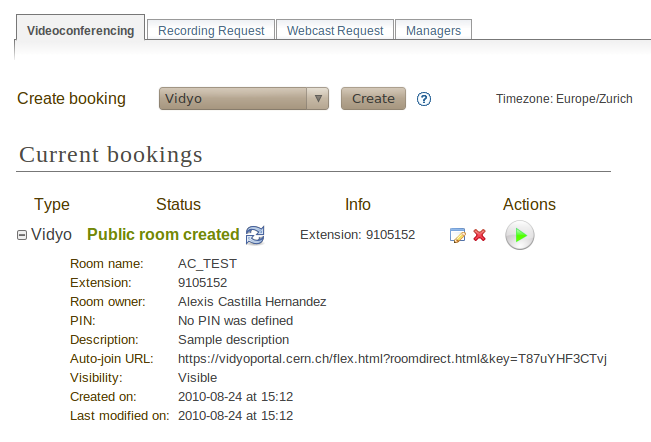
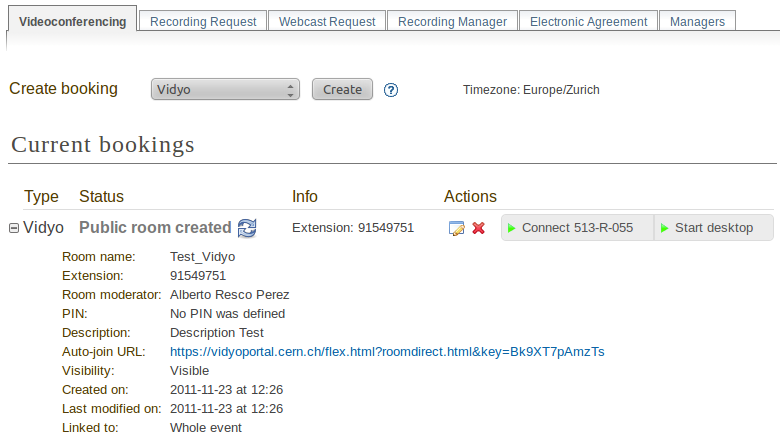
[FTR] Documentation of the new features of Vidyo.

Changed region(s): [[0.0, 0.2955, 0.9831, 1.0], [0.0, 0.1773, 0.9831, 0.2659], [0.0, 0.0, 0.9524, 0.0886]]

diff --git a/doc/guides/VideoServicesGuides/EventManager/EventManager.rst b/doc/guides/VideoServicesGuides/EventManager/EventManager.rst
@@ -1279,7 +1279,9 @@ In the *Basic* tab, you should fill in the following fields:
 
 - *Description* : this is the description of room
 
-- *Owner* : this is the person who will own the room. The owner will be the room responsible and the meeting moderator
+- *Event linking* : this is the link of the room. It can be the event, a session or a contribution. The event can be linked to several rooms. However the sessions and contributions can be linked only to one room.
+
+- *Moderator* : this is the person who will own the room. The moderator will be the room responsible and the meeting moderator
 
 - *PIN* : this is the code to protect the room
 
@@ -1324,7 +1326,7 @@ The details given are:
 
 - *Extension* : this is the numeric extension of the room, that gives another possibility of joining it. If one is logged in the Vidyo portal, one can join a room by entering the extension in the field "Select from list or Enter name to call"
 
-- *Room owner* : this is the owner of the room, which has moderator rights.
+- *Room moderator* : this is the owner of the room, which has moderator rights.
 
 - *PIN* : this is the code to protect the room
 
@@ -1343,6 +1345,8 @@ The details given are:
 - *Last modified on* : this shows the last time that the
   booking information was modified.
 
+- *Linked to* : this is the link of the room: the event, a session or a contribution.
+
 Also, in case of problems, there will be information in red in the
 details. More on that in section
 `Problems when creating or modifying Vidyo bookings <#problems-when-creating-or-modifying-a-vidyo-booking>`_
@@ -1360,11 +1364,12 @@ change. Your changes will change the booking in Vidyo too.
 6. |image15| button (*remove* ). Press this to delete your booking.
 You will be asked for confirmation.
 
-7. |image17| button (*start videoconference* ). Press this button
+7. |figure80| button (*start desktop* ). Press this button
 to launch the Vidyo client and have your PC join the videoconference
-automatically. The button will be disabled (|image18| ) if you
-cannot join the videoconference yet, or if the videoconference
-already took place.
+automatically.
+
+8. |figure81| button (*connect room* ). Press this button
+to launch the Vidyo client in the conferences/session/contribution room. In order to have this button enabled the link has to be in a capable Vidyo room.
 
 ~~~~~~~~~~~~~~~~~~~~~~~~~~~~~~~~~~~~~~~~~~~~~~~~~~~
 Problems when creating or modifying a Vidyo booking
@@ -1385,6 +1390,8 @@ Situations where this can happen:
 
 - *You left the meeting description empty* . The *Description* field
   will be highlighted in red.
+
+- *You choose a link type that does not have items*. The "Linked to" select field will be highlighted in red.
 
 Problems when you come to the Collaboration tab or when you
 update the status:
@@ -2035,3 +2042,5 @@ Once the file submited, the page will refresh and a pdf icon will appear. Clicki
 .. |figure77| image:: images/fig77.png
 .. |figure78| image:: images/fig78.png
 .. |figure79| image:: images/fig79.png
+.. |figure80| image:: images/fig80.png
+.. |figure81| image:: images/fig81.png

diff --git a/doc/guides/VideoServicesGuides/UserGuide/VideoServicesUserGuide.rst b/doc/guides/VideoServicesGuides/UserGuide/VideoServicesUserGuide.rst
@@ -180,10 +180,18 @@ H.323 device. To use it in your PC,  you need the Vidyo client installed and a
 webcam and audio device connected (please go to `recommendations page <http://it-multimedia.web.cern.ch/it-multimedia/collaborative/recommendations.php>`_
 for videoconferencing PC hardware).
 
-An ongoing Vidyo videoconference associated to an Indico event will appear like
+The ongoing Vidyo videoconferences can be associated to an Indico event and its sessions and contributions, and will appear like
 this:
 
+|image16|
+
+The information related to the Vidyo videoconferences associated to the event will be shown:
+
 |image12|
+
+If you are not the moderator of the Vidyo videoconference associated and you are manager of the event the link *Make me moderator* will be shown:
+
+|image17|
 
 If the Vidyo meeting is not yet ongoing, the *Join Now!* button will not be
 shown.
@@ -193,7 +201,15 @@ click on the *Join Now!* link:
 
 |image13|
 
-This will connect you to the Vidyo Portal where you will be asked for your
+In the case of sessions and contributions a popup will appear when the mouse passes over the "Join Vidyo" link:
+
+|image18|
+
+The popup will also show the information related to the room and, if you are manager of the event and you are not the moderator a link *Make me moderator* will appear.
+
+|image19|
+
+These links will connect you to the Vidyo Portal where you will be asked for your
 account name and password. For information about registration, please go to
 http://cern.ch/vidyo-service/. If you are not yet registered in the system,
 you can also choose a Guest name:
@@ -223,3 +239,7 @@ video and audio from/to the meeting.
 .. |image13| image:: images/image13.png
 .. |image14| image:: images/image14.png
 .. |image15| image:: images/image15.png
+.. |image16| image:: images/image16.png
+.. |image17| image:: images/image17.png
+.. |image18| image:: images/image18.png
+.. |image19| image:: images/image19.png
